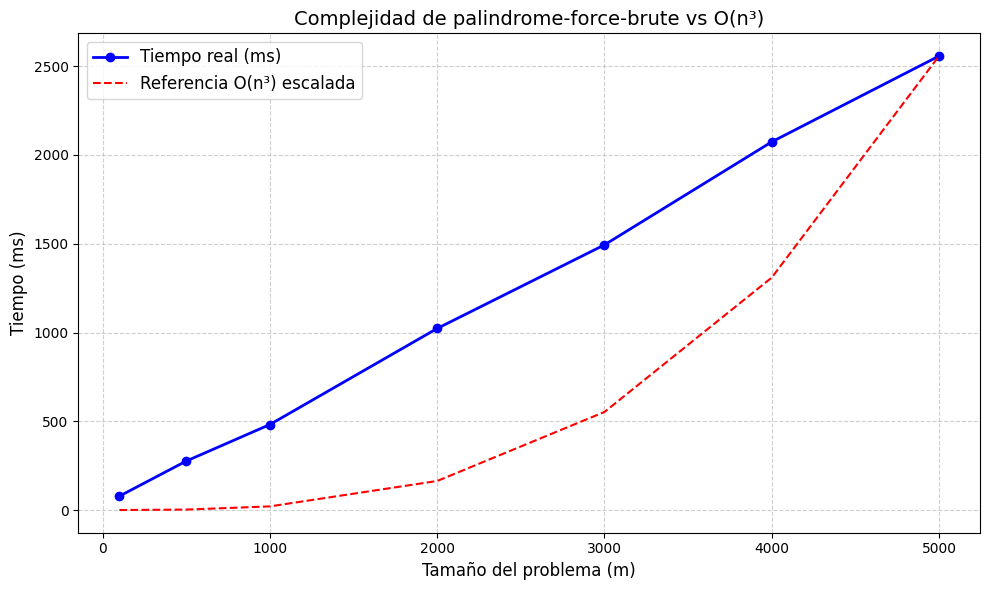
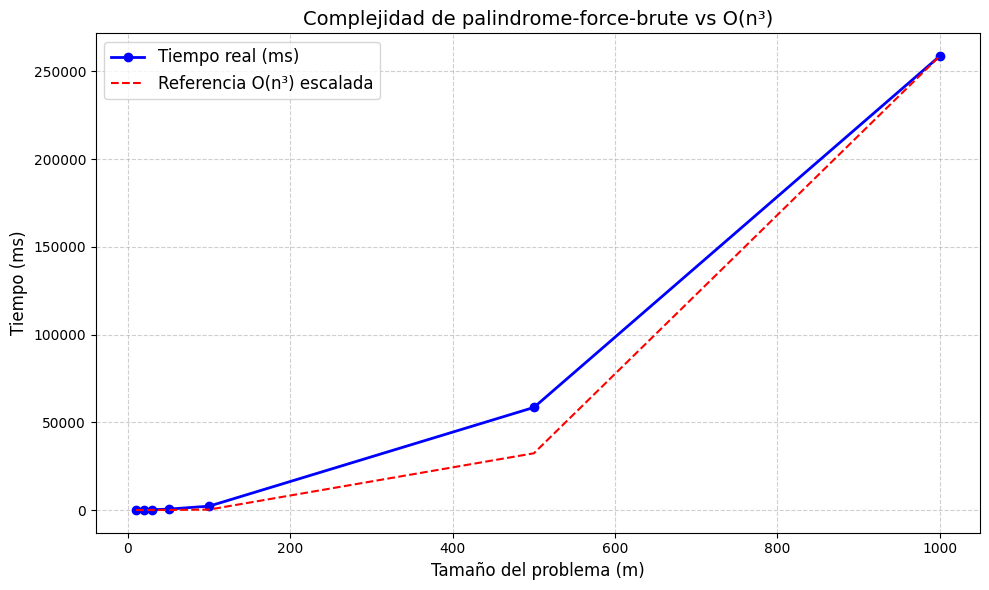
fix: changes in image brute solution palindrome

diff --git a/docs/palindrome-brute-force.md b/docs/palindrome-brute-force.md
@@ -119,7 +119,7 @@ La complejidad espacial es lineal (`O(n)`), ya que no se almacenan todas las sub
 
 ### Análisis de Complejidad Temporal Experimental
 
-Se realizaron múltiples ejecuciones del algoritmo con diferentes tamaños de entrada: 100, 500, 1000, 2000, 3000, 4000 y 5000. Estos tamaños fueron seleccionados teniendo en cuenta el máximo valor que soporta el equipo de pruebas sin comprometer la estabilidad del sistema.
+Se realizaron múltiples ejecuciones del algoritmo con diferentes tamaños de entrada: 10,20,30,50,100,500,1000. Estos tamaños fueron seleccionados teniendo en cuenta el máximo valor que soporta el equipo de pruebas sin comprometer la estabilidad del sistema.
 
 La gráfica muestra el tiempo de ejecución (La linea azul) de la solución de fuerza bruta para encontrar el palíndromo más largo en función del tamaño del problema (m). Se compara con una referencia teórica de complejidad O(n³) escalada (La linea roja). Se puede evidenciar cómo ambas presentan un comportamiento similar, con algunas variaciones que pueden deberse a factores externos como la carga del sistema, el recolector de basura del entorno de ejecución u otros procesos corriendo en segundo plano.
 
